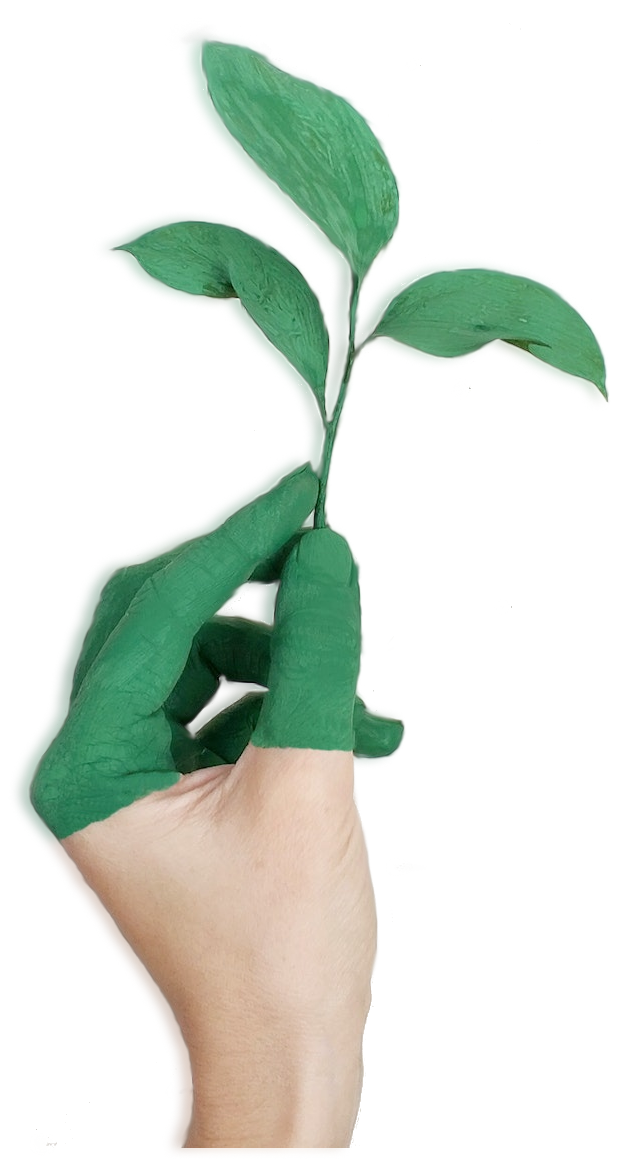
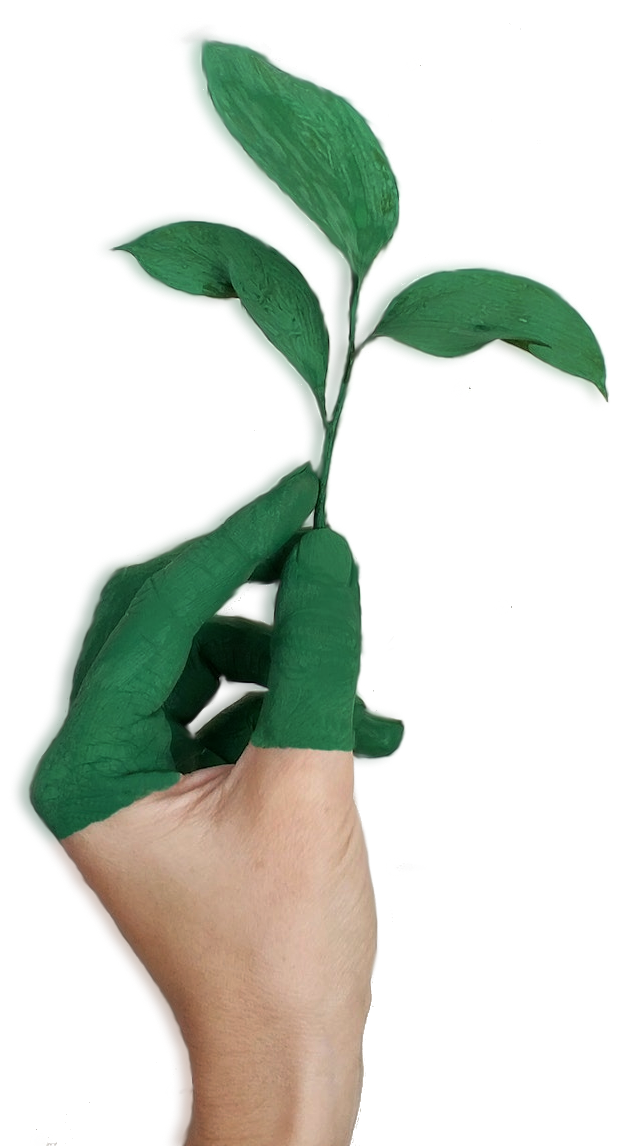
fixed contrast for images

Changed region(s): [[0.0306, 0.0305, 0.9806, 1.0]]

diff --git a/components/TheFooter.vue b/components/TheFooter.vue
@@ -61,9 +61,10 @@
           </p>
 
           <nav class="flex flex-col mt-4 
-           space-y-4 text-sm ">
-            <a class="footer-links flex 
-             md:hover:opacity-75 gap-2" 
+           space-y-4 text-sm">
+
+            <a class="footer-links flex gap-2
+             item-center md:hover:opacity-75" 
              :href="`mailto:${useDetails.email}`">
 
               <i class="material-symbols-outlined"> alternate_email </i>
@@ -71,10 +72,11 @@
               class="text-xs"></p>
             </a>
 
-           <div class="footer-links flex gap-2 md:hover:opacity-75 ">
+           <div class="footer-links flex 
+            gap-2 md:hover:opacity-75 ">
 
             <i class="material-symbols-outlined"> phone_in_talk </i>
-            <span>
+            <div>
               <a class="md:hover:opacity-75 " 
                :href="`tel:${useDetails.num1}`">
                 <p v-html="useDetails.num1"></p>
@@ -84,7 +86,7 @@
                :href="`tel:${useDetails.num2}`">
                 <p v-html="useDetails.num2"></p>
               </a>
-            </span>
+            </div>
            </div>
           </nav>
         </div>

diff --git a/server/api/campaign/index.get.js b/server/api/campaign/index.get.js
@@ -3,6 +3,7 @@ import ApiFeature from '~/server/utils/ApiFeature'
 
 export default defineEventHandler (async (event) => {
   try {
+    console.log(event)
 
     const features = new ApiFeature(CampaignModel.find(), getQuery(event))
     features.pagination()
@@ -10,7 +11,6 @@ export default defineEventHandler (async (event) => {
     return await features.query
   }
   catch (err) {
-    console.log(err)
     return err
   }
 })

diff --git a/server/api/volunteers/create.post.js b/server/api/volunteers/create.post.js
@@ -11,9 +11,10 @@ export default defineEventHandler ( async (event) => {
     } 
   }
   catch (err) {
-    return {
-      error: true,
-      message: err.message
+    } else {
+      return {
+        error: true,
+        message: 'Something went wrong!'
+      }
     }
-  }
 })

diff --git a/pages/contact.vue b/pages/contact.vue
@@ -14,7 +14,6 @@
 
 <script setup>
   const config = useRuntimeConfig()
-  console.log(config.public)
 
   const contacts = [ 
     { label: 'Contact no.', detail: '9394494938/ <br> 9101576002', icon: 'call' },

diff --git a/server/api/campaign/[id].get.js b/server/api/campaign/[id].get.js
@@ -8,7 +8,6 @@ export default defineEventHandler (async (event) => {
     return await CampaignModel.findById(id)
   }
   catch (err) {
-    console.log(err)
     return err
   }
 })

diff --git a/middleware/route.global.js b/middleware/route.global.js
@@ -1,6 +1,7 @@
 export default defineNuxtRouteMiddleware ((to, from) => {
 
     if(process.client) {
+
      return window.scrollTo({ top: 0, behavior: 'smooth' })
     }
 })
